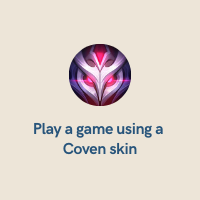
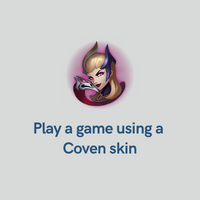
Tile update
- Change format for pride emotes on discord
- Change Coven Tile
- Change In-game SR Emote tile

Changed region(s): [[0.33, 0.18, 0.69, 0.57], [0.18, 0.6, 0.84, 0.78], [0.15, 0.66, 0.18, 0.69]]

diff --git a/bingo.js b/bingo.js
@@ -17,7 +17,7 @@ const taskList = [
     "res/Cosmic.png",
     "res/Coven.png",
     "res/Dark Star.png",
-    "res/Discord Emote.png",
+    "res/Discord Sona.png",
     "res/Educate.png",
     "res/Flair.png",
     "res/Genderfluid.png",
